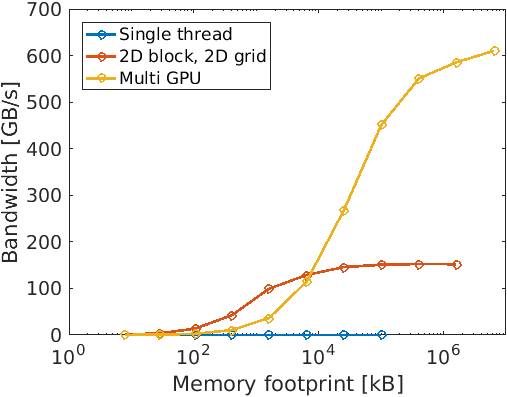
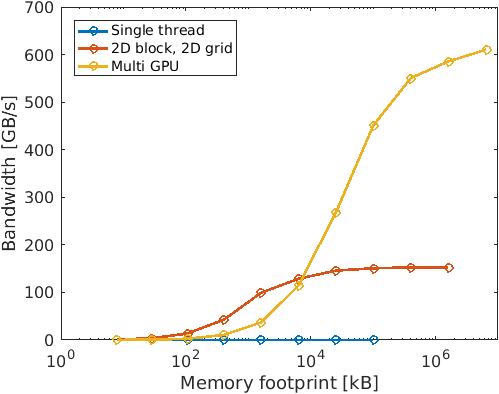
Updated plots

diff --git a/assignment3/poisson/performancePlots.m b/assignment3/poisson/performancePlots.m
@@ -47,7 +47,7 @@ xlabel('Memory footprint [kB]'); ylabel('Performance [Gflops]');
 axis([1e0 1e7 5e-3 1.6e2]);
 lh = legend('Single thread','2D block, 2D grid','Multi GPU','OpenMP','Location','southeast');
 set(lh,'color','none');
-set(gca,'fontsize',14);
+%set(gca,'fontsize',12);
 set(gcf, 'Color', 'w');
 export_fig 'memVsFlops.png'
 
@@ -59,7 +59,7 @@ xlabel('Memory footprint [kB]'); ylabel('Speedup (CPU/GPU)');
 axis([1e0 1e7 0 30]);
 lh = legend('Single thread','2D block, 2D grid','Multi GPU','Reference','Location','northwest');
 set(lh,'color','none');
-set(gca,'fontsize',14);
+%set(gca,'fontsize',12);
 set(gcf, 'Color', 'w');
 export_fig 'memVsSpeedup.png'
 
@@ -70,6 +70,6 @@ semilogx(A7(:,4),A7(:,7),'-o',A8(:,4),A8(:,7),'-o',A9(:,4),A9(:,7),'-o','LineWid
 xlabel('Memory footprint [kB]'); ylabel('Bandwidth [GB/s]');
 axis([1e0 1e7 0 700]);
 legend('Single thread','2D block, 2D grid','Multi GPU','Location','northwest');
-set(gca,'fontsize',14);
+%set(gca,'fontsize',12);
 set(gcf, 'Color', 'w');
 export_fig 'memVsBandwidth.png'
